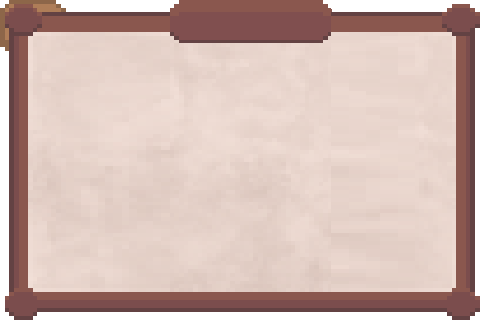
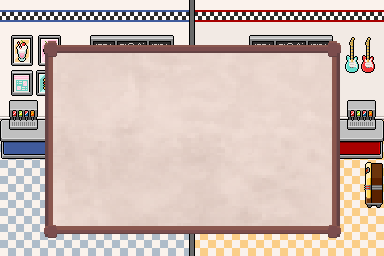
settings world

diff --git a/SettingsWorld.java b/SettingsWorld.java
@@ -8,22 +8,210 @@ import greenfoot.*;  // (World, Actor, GreenfootImage, Greenfoot and MouseInfo)
  */
 public class SettingsWorld extends World
 {
-    private int numChefs;
-    private int money;
+    // Blue restaurant settings
+    private int numChefsBlue = 1;
+    private int startMoneyBlue = 1000;
+    
+    // Red restaurant settings
+    private int numChefsRed = 1;
+    private int startMoneyRed = 1000;
+    
+    private GreenfootImage blueMenu;
+    private GreenfootImage redMenu;
+    
     private GreenfootImage background;
+    
+    // Blue restaurant buttons
+    private Button chefPlusBlue;
+    private Button chefMinusBlue;
+    private Button moneyPlusBlue;
+    private Button moneyMinusBlue;
+    
+    // Red restaurant buttons
+    private Button chefPlusRed;
+    private Button chefMinusRed;
+    private Button moneyPlusRed;
+    private Button moneyMinusRed;
+    
+    private Button playBtn;
+    
+    private final int MIN_CHEFS = 1;
+    private final int MAX_CHEFS = 5;
+    private final int MIN_MONEY = 500;
+    private final int MAX_MONEY = 5000;
+    private final int MONEY_INCREMENT = 100;
+    
+    private final int BLUE_CENTER_X = 280;
+    private final int BLUE_CHEF_Y = 270;
+    private final int BLUE_MONEY_Y = 340;
+    
+    private final int RED_CENTER_X = 680;
+    private final int RED_CHEF_Y = 270;
+    private final int RED_MONEY_Y = 340;
     
     public SettingsWorld()
     {    
         // Create a new world with 600x400 cells with a cell size of 1x1 pixels.
         super(960, 640, 1);
+        
         background = new GreenfootImage("bg_settings.png");
-        background.scale(background.getWidth() * 2, background.getHeight() * 2 );
+        background.scale(background.getWidth() * 5/2, background.getHeight() * 5/2 );
         setBackground(background);
+        
+        blueMenu = new GreenfootImage(140, 100);
+        
         addObjectsToWorld();
     }
     
     private void addObjectsToWorld(){
-        addObject(new Button("plus_1.png", "plus_2.png"), 300, 300);
+        // BLUE RESTAURANT BUTTONS
+        // Buttons for chefs
+        chefMinusBlue = new Button("minus_1.png", "minus_2.png");
+        chefMinusBlue.scale(2);
+        chefPlusBlue = new Button("plus_1.png", "plus_2.png");
+        chefPlusBlue.scale(2);
+        addObject(chefMinusBlue, BLUE_CENTER_X - 40, BLUE_CHEF_Y);
+        addObject(chefPlusBlue, BLUE_CENTER_X + 40, BLUE_CHEF_Y);
+        
+        // Buttons for money
+        moneyMinusBlue = new Button("minus_1.png", "minus_2.png");
+        moneyMinusBlue.scale(2);
+        moneyPlusBlue = new Button("plus_1.png", "plus_2.png");
+        moneyPlusBlue.scale(2);
+        addObject(moneyMinusBlue, BLUE_CENTER_X - 60, BLUE_MONEY_Y);
+        addObject(moneyPlusBlue, BLUE_CENTER_X + 60, BLUE_MONEY_Y);
+        
+        // RED RESTAURANT BUTTONS
+        // Buttons for chefs
+        chefMinusRed = new Button("minus_1.png", "minus_2.png");
+        chefMinusRed.scale(2);
+        chefPlusRed = new Button("plus_1.png", "plus_2.png");
+        chefPlusRed.scale(2);
+        addObject(chefMinusRed, RED_CENTER_X - 40, RED_CHEF_Y);
+        addObject(chefPlusRed, RED_CENTER_X + 40, RED_CHEF_Y);
+        
+        // Buttons for money
+        moneyMinusRed = new Button("minus_1.png", "minus_2.png");
+        moneyMinusRed.scale(2);
+        moneyPlusRed = new Button("plus_1.png", "plus_2.png");
+        moneyPlusRed.scale(2);
+        addObject(moneyMinusRed, RED_CENTER_X - 60, RED_MONEY_Y);
+        addObject(moneyPlusRed, RED_CENTER_X + 60, RED_MONEY_Y);
+        
+        playBtn = new Button("play_1.png", "play_2.png");
+        playBtn.scale(2);
+        addObject(playBtn, 480, 500);
+        
+        updateDisplay();
     }
     
+    public void act() {
+        checkButtons();
+    }
+    
+    private void checkButtons()
+    {
+        if (chefMinusBlue.isClicked() && numChefsBlue > MIN_CHEFS)
+        {
+            numChefsBlue--;
+            updateDisplay();
+        }
+        if (chefPlusBlue.isClicked() && numChefsBlue < MAX_CHEFS)
+        {
+            numChefsBlue++;
+            updateDisplay();
+        }
+        
+        if (moneyMinusBlue.isClicked() && startMoneyBlue > MIN_MONEY)
+        {
+            startMoneyBlue -= MONEY_INCREMENT;
+            updateDisplay();
+        }
+        if (moneyPlusBlue.isClicked() && startMoneyBlue < MAX_MONEY)
+        {
+            startMoneyBlue += MONEY_INCREMENT;
+            updateDisplay();
+        }
+        
+        if (chefMinusRed.isClicked() && numChefsRed > MIN_CHEFS)
+        {
+            numChefsRed--;
+            updateDisplay();
+        }
+        if (chefPlusRed.isClicked() && numChefsRed < MAX_CHEFS)
+        {
+            numChefsRed++;
+            updateDisplay();
+        }
+        
+        if (moneyMinusRed.isClicked() && startMoneyRed > MIN_MONEY)
+        {
+            startMoneyRed -= MONEY_INCREMENT;
+            updateDisplay();
+        }
+        if (moneyPlusRed.isClicked() && startMoneyRed < MAX_MONEY)
+        {
+            startMoneyRed += MONEY_INCREMENT;
+            updateDisplay();
+        }
+        
+        
+        if (playBtn.isClicked())
+        {
+            startGame();
+        }
+    }
+    
+    private void updateDisplay() {
+        // Get the background image
+        setBackground(new GreenfootImage(background));
+        GreenfootImage bg = getBackground();
+        
+        bg.setColor(new Color(99, 66, 66));
+        
+        // Draw title
+        bg.setFont(new Font("Consolas", true, false, 64));
+        bg.drawString("SETUP", 400, 150);
+        
+        // BLUE RESTAURANT (LEFT SIDE)
+        bg.setFont(new Font("Consolas", true, false, 32));
+        bg.setColor(new Color(50, 100, 200)); 
+        bg.drawString("BLUE", BLUE_CENTER_X - 50, 200);
+        
+        bg.setColor(new Color(99, 66, 66));
+        bg.setFont(new Font("Consolas", false, false, 24));
+        bg.drawString("Chefs", BLUE_CENTER_X - 70, BLUE_CHEF_Y - 20);
+        
+        bg.setFont(new Font("Consolas", true, false, 28));
+        bg.drawString(String.valueOf(numChefsBlue), BLUE_CENTER_X - 5, BLUE_CHEF_Y + 5);
+        
+        bg.setFont(new Font("Consolas", false, false, 24));
+        bg.drawString("Money", BLUE_CENTER_X - 70, BLUE_MONEY_Y - 20);
+        
+        bg.setFont(new Font("Consolas", true, false, 28));
+        bg.drawString("$" + startMoneyBlue, BLUE_CENTER_X - 40, BLUE_MONEY_Y + 5);
+        
+        // RED RESTAURANT (RIGHT SIDE)
+        bg.setFont(new Font("Consolas", true, false, 32));
+        bg.setColor(new Color(200, 50, 50)); 
+        bg.drawString("RED", RED_CENTER_X - 40, 200);
+        
+        bg.setColor(new Color(99, 66, 66));
+        bg.setFont(new Font("Consolas", false, false, 24));
+        bg.drawString("Chefs", RED_CENTER_X - 70, RED_CHEF_Y - 20);
+        
+        bg.setFont(new Font("Consolas", true, false, 28));
+        bg.drawString(String.valueOf(numChefsRed), RED_CENTER_X - 5, RED_CHEF_Y + 5);
+        
+        bg.setFont(new Font("Consolas", false, false, 24));
+        bg.drawString("Money", RED_CENTER_X - 70, RED_MONEY_Y - 20);
+        
+        bg.setFont(new Font("Consolas", true, false, 28));
+        bg.drawString("$" + startMoneyRed, RED_CENTER_X - 40, RED_MONEY_Y + 5);
+    }
+    
+    private void startGame()
+    {
+        
+    }
 }

diff --git a/Button.java b/Button.java
@@ -10,31 +10,37 @@ import greenfoot.*;
  */
 public class Button extends Actor {
     private GreenfootImage image;
-    private GreenfootImage sImage;
+    private GreenfootImage image_2;
     private Actor actorHoveredOver = null;
+    private boolean clicked = false;
     
     public Button(String image1, String image2){
         image = new GreenfootImage (image1);
-        sImage = new GreenfootImage(image2);
+        image_2 = new GreenfootImage(image2);
         setImage(image);
     }
     
     public void act(){
         if (mouseHoveringOver(this)) {
-            
-            setImage(sImage);
+            setImage(image_2);
         }
         else {
         setImage(image);
         }
         
         if(Greenfoot.mouseClicked(this)){
-            Greenfoot.setWorld(new StoryWorld());
+            clicked = true;
+        } else {
+            clicked = false;
         }
     }
     /**
      * This method checks to see which button the mouse is hovering over
      */
+    public boolean isClicked() {
+        return clicked;
+    }
+    
     private void hoverOwner() {
         if ((actorHoveredOver == null || actorHoveredOver.getWorld() == null)
                 && Greenfoot.mouseMoved(this)) {
@@ -55,6 +61,12 @@ public class Button extends Actor {
     public boolean mouseHoveringOver(Actor actor) {
         hoverOwner();
         return actorHoveredOver == actor;
+    }
+    
+    public void scale(int ratio) {
+        image.scale(image.getWidth()*ratio, image.getHeight()*ratio);
+        image_2.scale(image_2.getWidth()*ratio, image_2.getHeight()*ratio);
+        
     }
  
     /**
